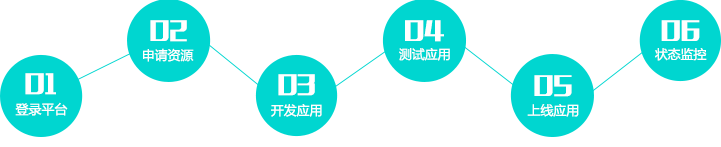
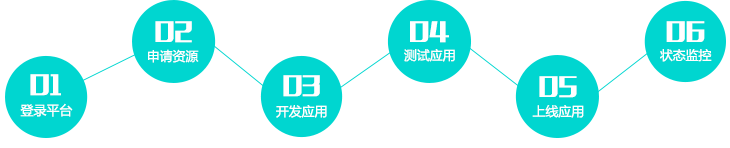
提交服务开发环境

diff --git a/modules/pioneering/pioneering.css b/modules/pioneering/pioneering.css
@@ -242,7 +242,7 @@
 .server-env .top-font {
     background: initial;
 }
-.server-env .left-font{width: 800px;padding: 44px 0 0 38px;height: 160px;box-sizing: border-box;position: relative;background: initial;}
+.server-env .left-font{width: 800px;padding: 20px 0 0 60px;height: 160px;box-sizing: border-box;position: relative;background: initial;}
 .server-env .left-font p{line-height: 26px;text-indent: 2em;width: 615px;}
 .server-env .left-font a{width: 190px;height: 160px;background: url(../../images/newRequireImg01.png) no-repeat left top;display: block;position: absolute;right: 0;top: 0;color: #fff;font-size: 14px;text-align: center;line-height: 250px;}
 .server-env .right-area {

diff --git a/modules/pioneering/server.html b/modules/pioneering/server.html
@@ -6,7 +6,7 @@
                 <h2 class="ft24">服务开发环境</h2>
                 <p class="ft14 mt34">服务控制台平台提供丰富的开发资源和模板，包括测试资源申请、生产资源申请、环境配置、测试功能、上线功能、数据库功能、状态监控，以及代码托管、持续集成功能。</p>
                 
-                <img src="../../images/pioneer_server_step.png">
+                <img class="mt20" src="../../images/pioneer_server_step.png">
             </div>
             <div class="fl tc mt48">
                 <a class="right-area" href="javascript:;" onclick="mscxPage.jumpDevelop();">

diff --git a/modules/pioneering/apiEnvView.js b/modules/pioneering/apiEnvView.js
@@ -6,7 +6,7 @@ var template = '<div class="api-env rightMenuWrap grid1190 fl boxShadiow boxSizi
 
 var cmsUrl = Resource.cmsHost + 'static_html/datainfo/apiinfo/index.html';
 
-var cmsTemplate = require('html!./server.html');
+var cmsTemplate = require('html!./api.html');
 
 require('./pioneering.css');
 
